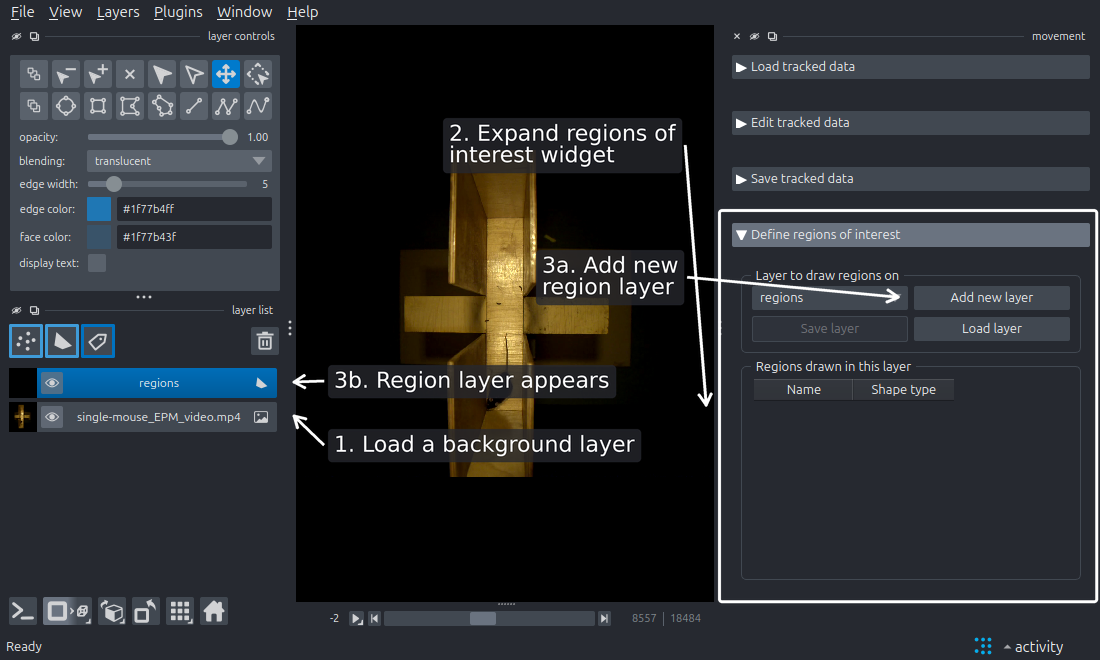
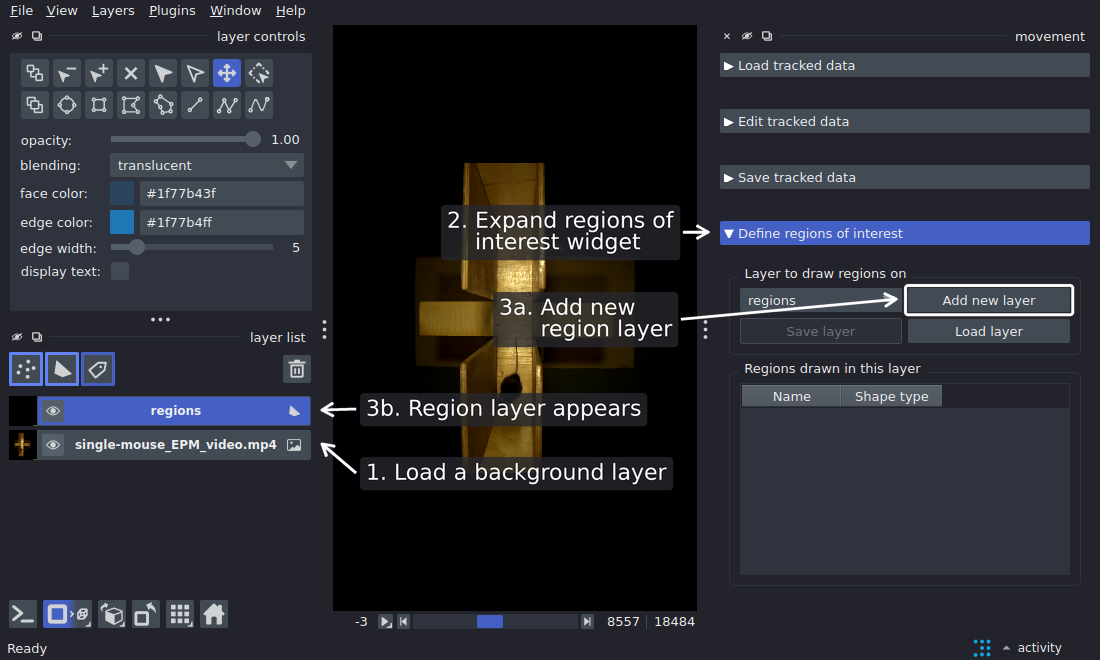
Stop the arrows crossing in new region layer screenshot
The arrows of labels 2 and 3a crossed, and the 3a arrow seemed to point
at the layer dropdown rather than the button. Point label 2 at the
section header (no box needed), and box the "Add new layer" button
with a straight arrow to it. Regenerate the screenshot with napari 0.9.2.

diff --git a/docs/make_gui_screenshots.py b/docs/make_gui_screenshots.py
@@ -700,7 +700,8 @@ def new_region_layer(out: Path) -> Path:
     video = gui.open_video(EPM)
     gui.viewer.dims.set_current_step(0, 8557)
     gui.expand_only(REGIONS_SECTION)
-    regions = gui.section(REGIONS_SECTION).content()
+    section = gui.section(REGIONS_SECTION)
+    regions = section.content()
     regions.add_layer_button.click()
     settle()
     labels = [
@@ -712,19 +713,17 @@ def new_region_layer(out: Path) -> Path:
             shift=30,
         ),
         Label(
-            gui.rect(gui.section(REGIONS_SECTION)),
+            gui.rect(section.toggleButton()),
             "2. Expand regions of\ninterest widget",
             side="left",
-            gap=40,
-            shift=-260,
+            box=False,
         ),
         Label(
             gui.rect(regions.add_layer_button),
             "3a. Add new\nregion layer",
             side="left",
-            box=False,
             gap=230,
-            shift=-20,
+            shift=20,
         ),
         Label(
             gui.layer_row("regions"),
